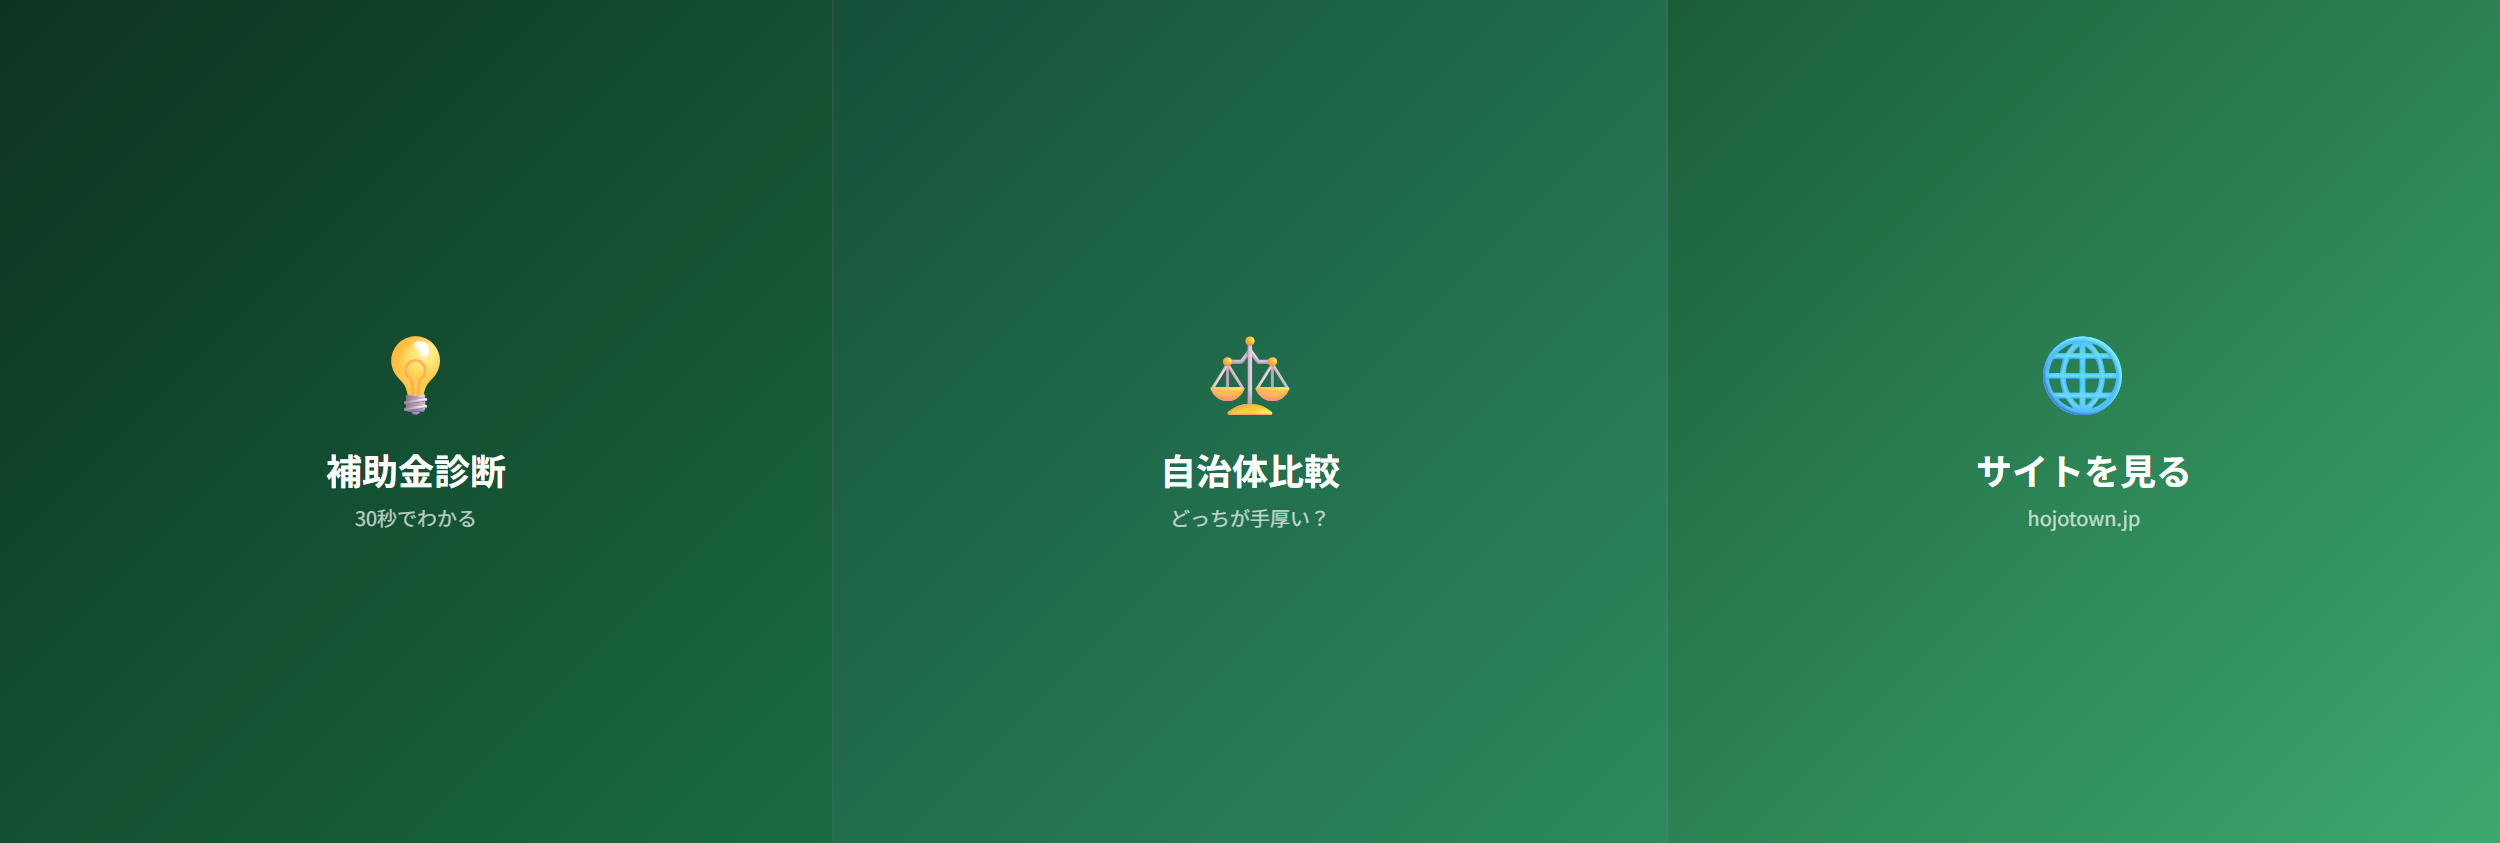
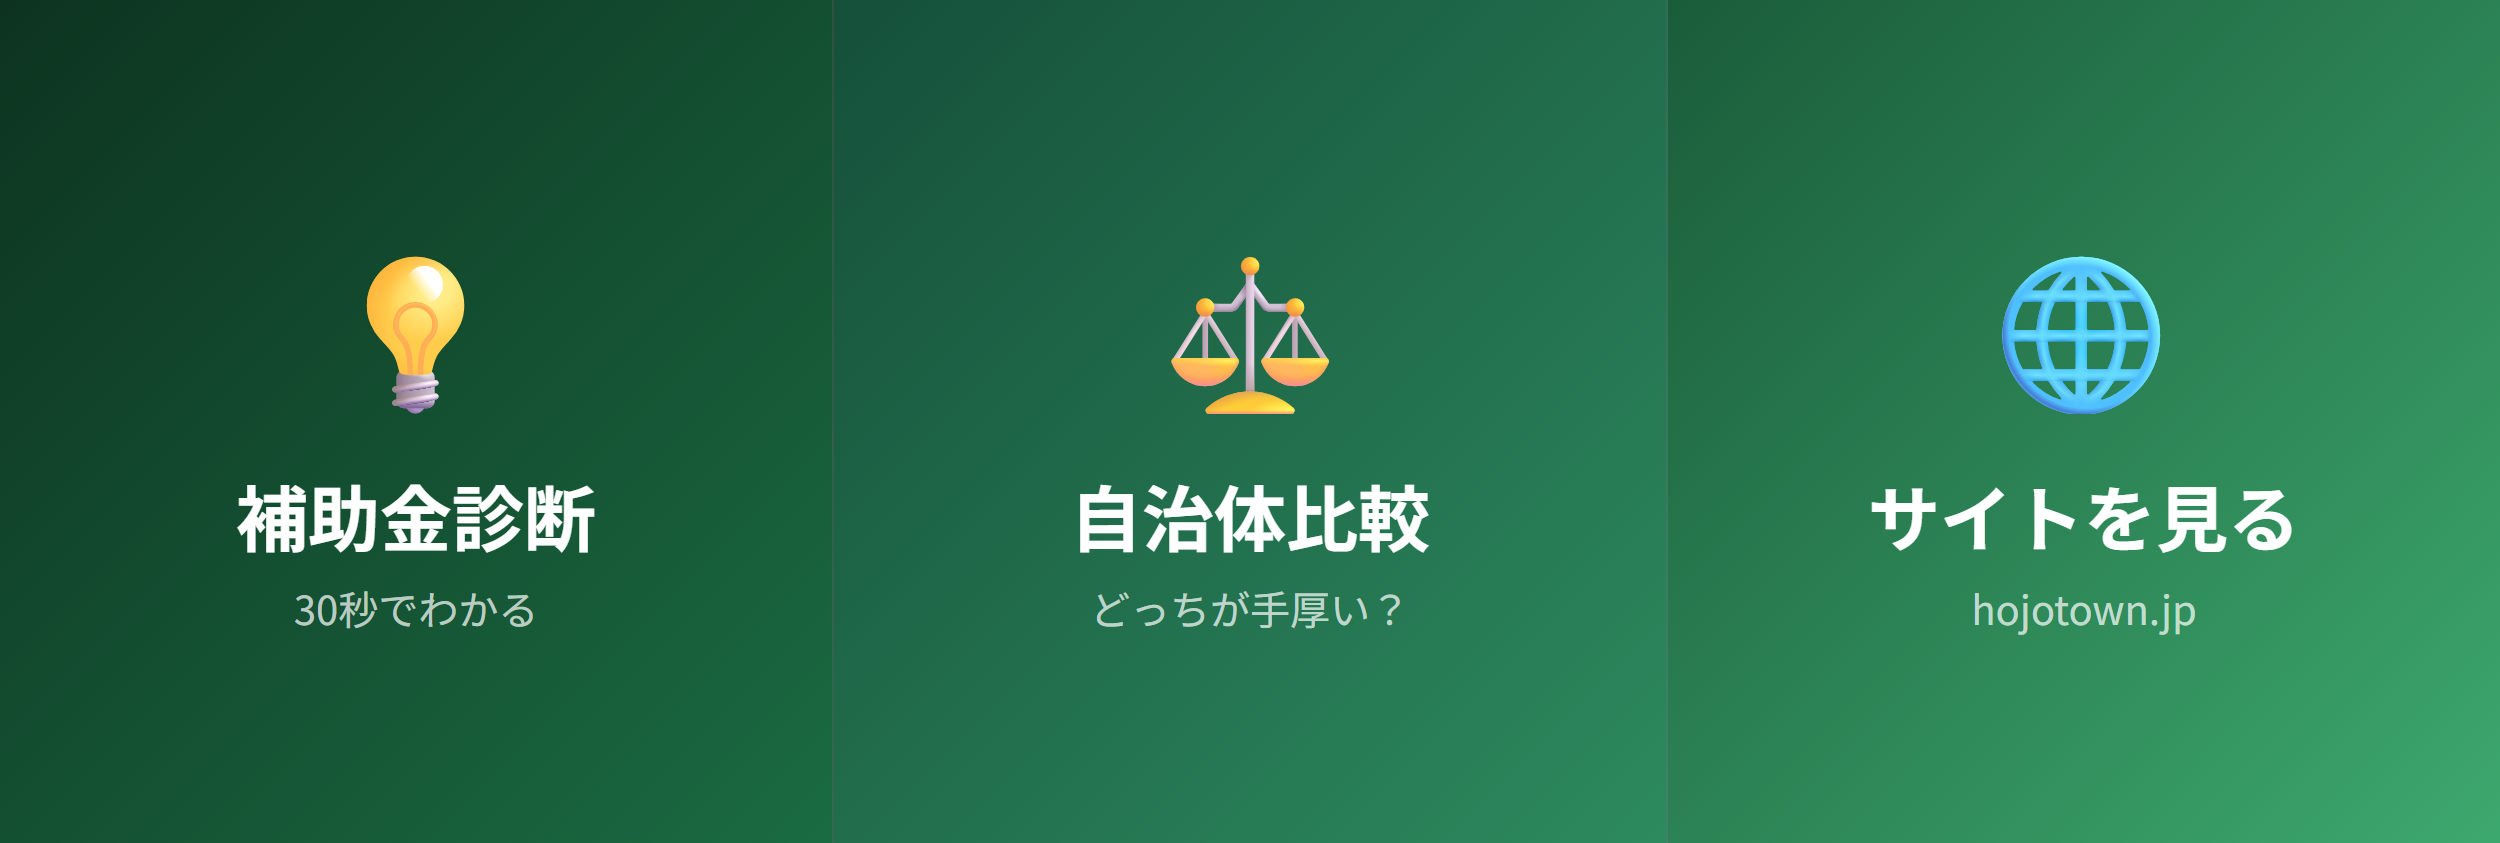
13市のofficialUrl修正(129件)+リッチメニュー文字サイズ拡大
- 福島/八王子/浜松/いわき/郡山/町田/前橋/水戸/練馬/世田谷/高崎/つくば/宇都宮の404 URL修正
- リッチメニュー画像のフォントサイズを倍に（36→72px, 20→40px, 80→160px）

diff --git a/public/richmenu.html b/public/richmenu.html
@@ -4,9 +4,9 @@
 body{margin:0;padding:0;width:2500px;height:843px;display:flex;background:#1a5c3a;font-family:'Noto Sans JP',sans-serif;}
 .panel{flex:1;display:flex;flex-direction:column;align-items:center;justify-content:center;color:white;border-right:2px solid rgba(255,255,255,0.15);text-decoration:none;transition:background 0.2s;}
 .panel:last-child{border-right:none;}
-.panel-icon{font-size:80px;margin-bottom:16px;}
-.panel-title{font-size:36px;font-weight:700;margin-bottom:8px;}
-.panel-sub{font-size:20px;opacity:0.7;}
+.panel-icon{font-size:160px;margin-bottom:24px;}
+.panel-title{font-size:72px;font-weight:700;margin-bottom:12px;}
+.panel-sub{font-size:40px;opacity:0.7;}
 .panel-1{background:linear-gradient(135deg,#0d3320,#1a6b42);}
 .panel-2{background:linear-gradient(135deg,#15503a,#2d8a5e);}
 .panel-3{background:linear-gradient(135deg,#1a5c3a,#3da86e);}
